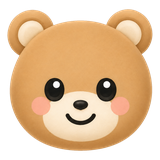
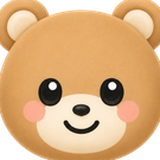
fix(ui): 아바타 곰 얼굴 꽉 채우기 + 42px 확대
- 원 안에 또 둥근 머리가 떠 보이던 이중 원 문제 해소:
  볼이 원 가장자리에 닿고 귀가 원호에 걸리는 프로필 사진 스타일 크롭
- 아바타 36→42px 확대, 브랜드 여백 보정(16→10, solo 64→58)으로
  레일(브랜드 150 / 진행바 202 / 타이틀 250) 불변
- char-bear.png ?v=4

diff --git a/src/main/resources/static/css/auth.css b/src/main/resources/static/css/auth.css
@@ -90,17 +90,17 @@ html {
     display: flex;
     align-items: center;
     gap: 10px;
-    margin-bottom: 16px;
+    margin-bottom: 10px;   /* 행 42(아바타) + 10 = 진행바 202 레일 */
 }
 
-/* 진행바 없는 화면: 진행바 영역만큼 더 벌려 타이틀을 250 레일에 맞춘다 */
+/* 진행바 없는 화면: 진행바 영역만큼 더 벌려 타이틀을 250 레일에 맞춘다 (192+58) */
 .auth-brand--solo {
-    margin-bottom: 64px;
+    margin-bottom: 58px;
 }
 
 .auth-avatar {
-    width: 36px;
-    height: 36px;
+    width: 42px;
+    height: 42px;
     flex: none;
     border-radius: 50%;
     background: var(--kd-primary-tint);
